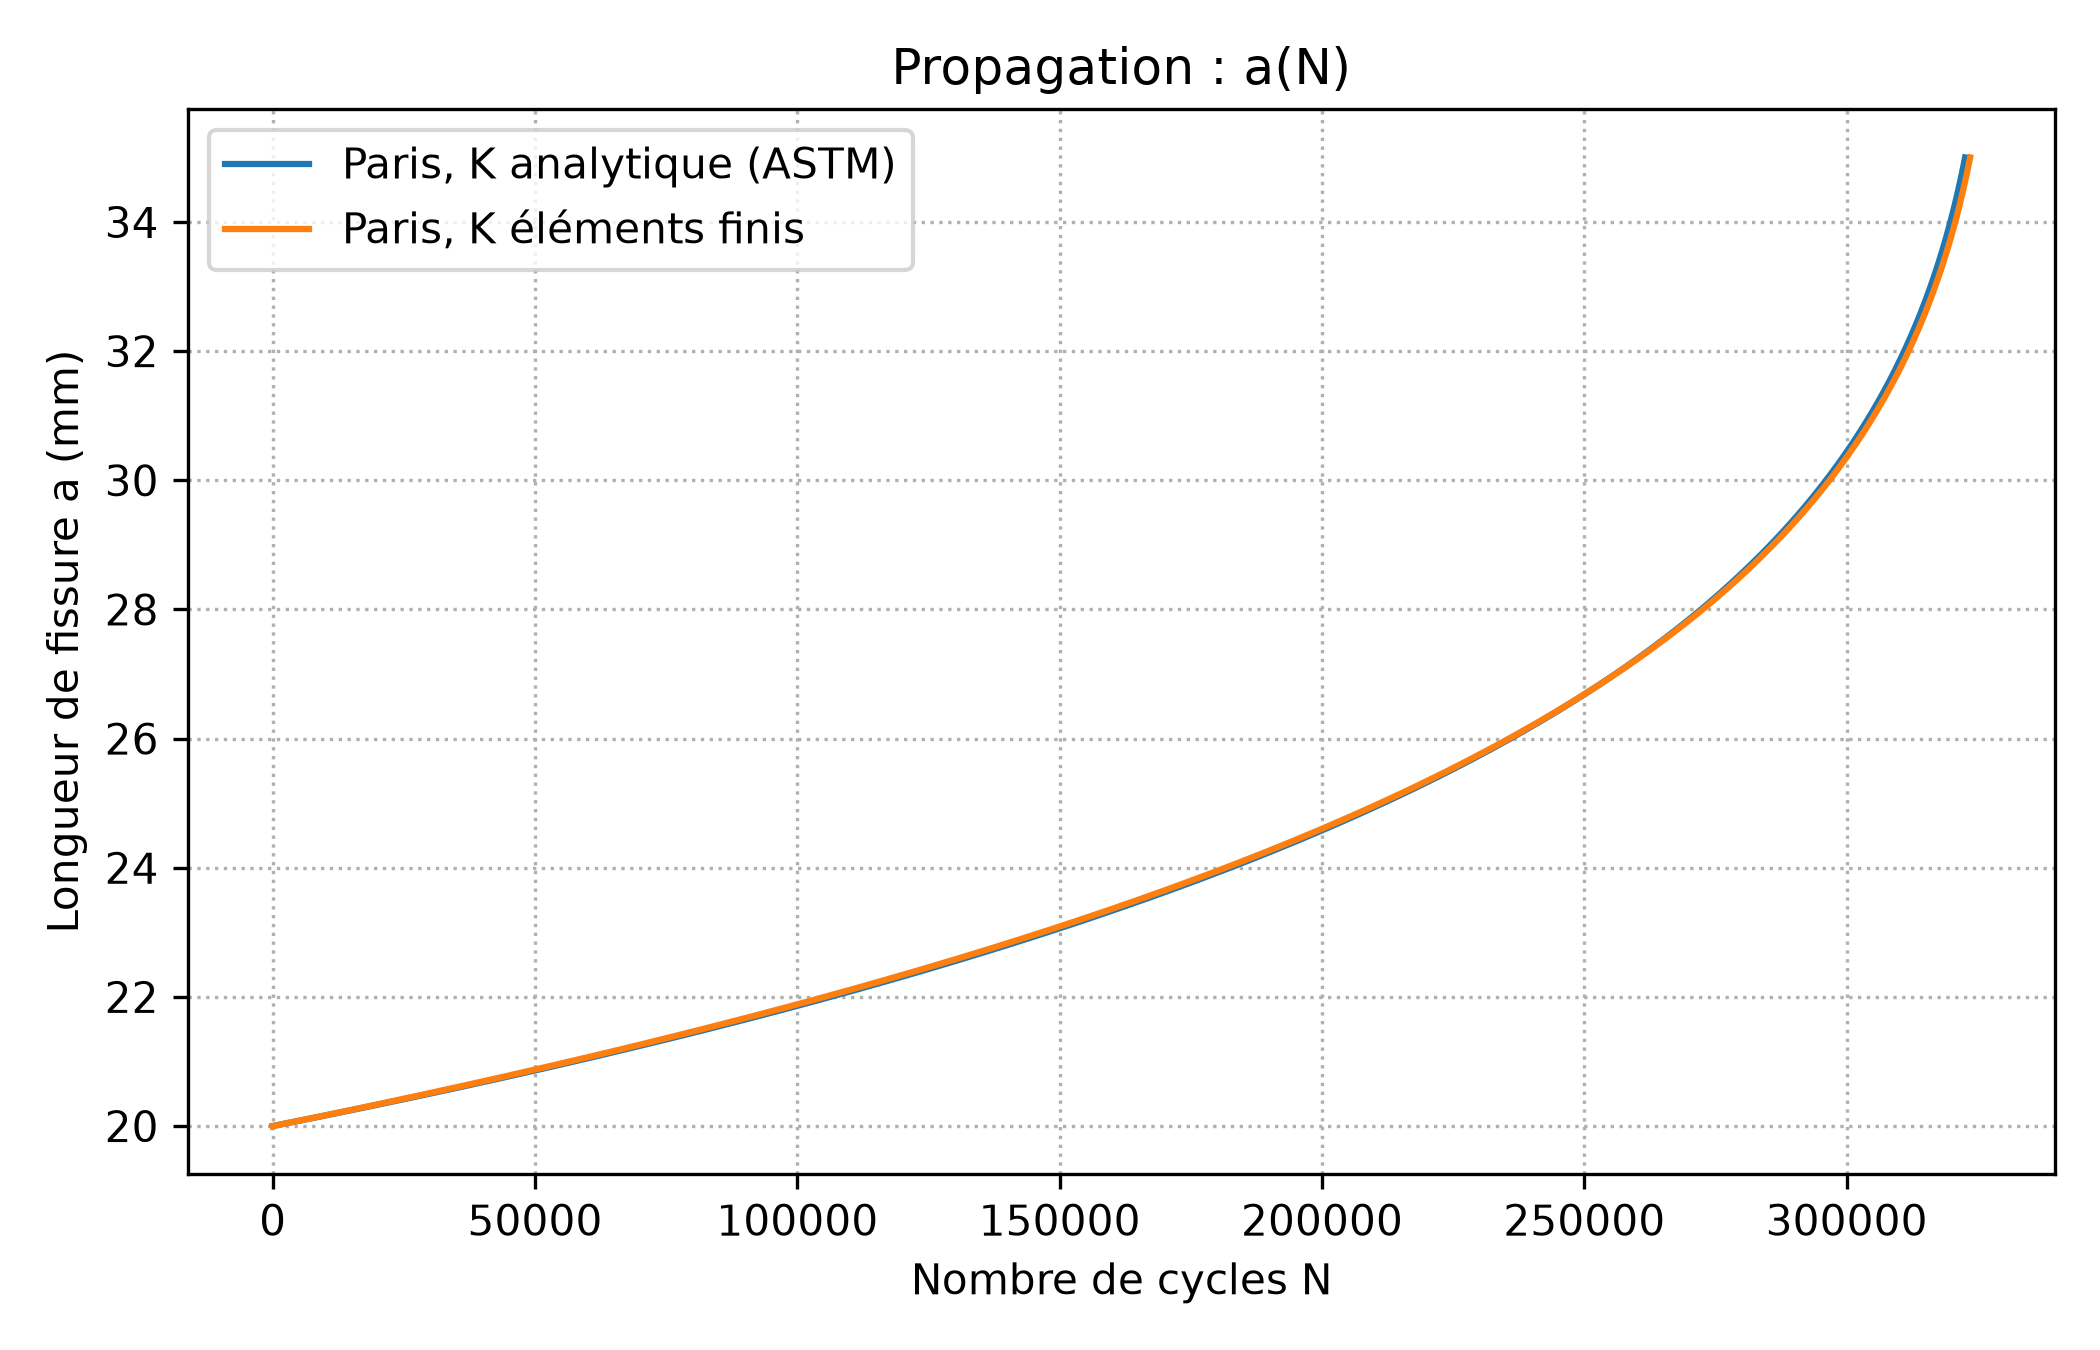
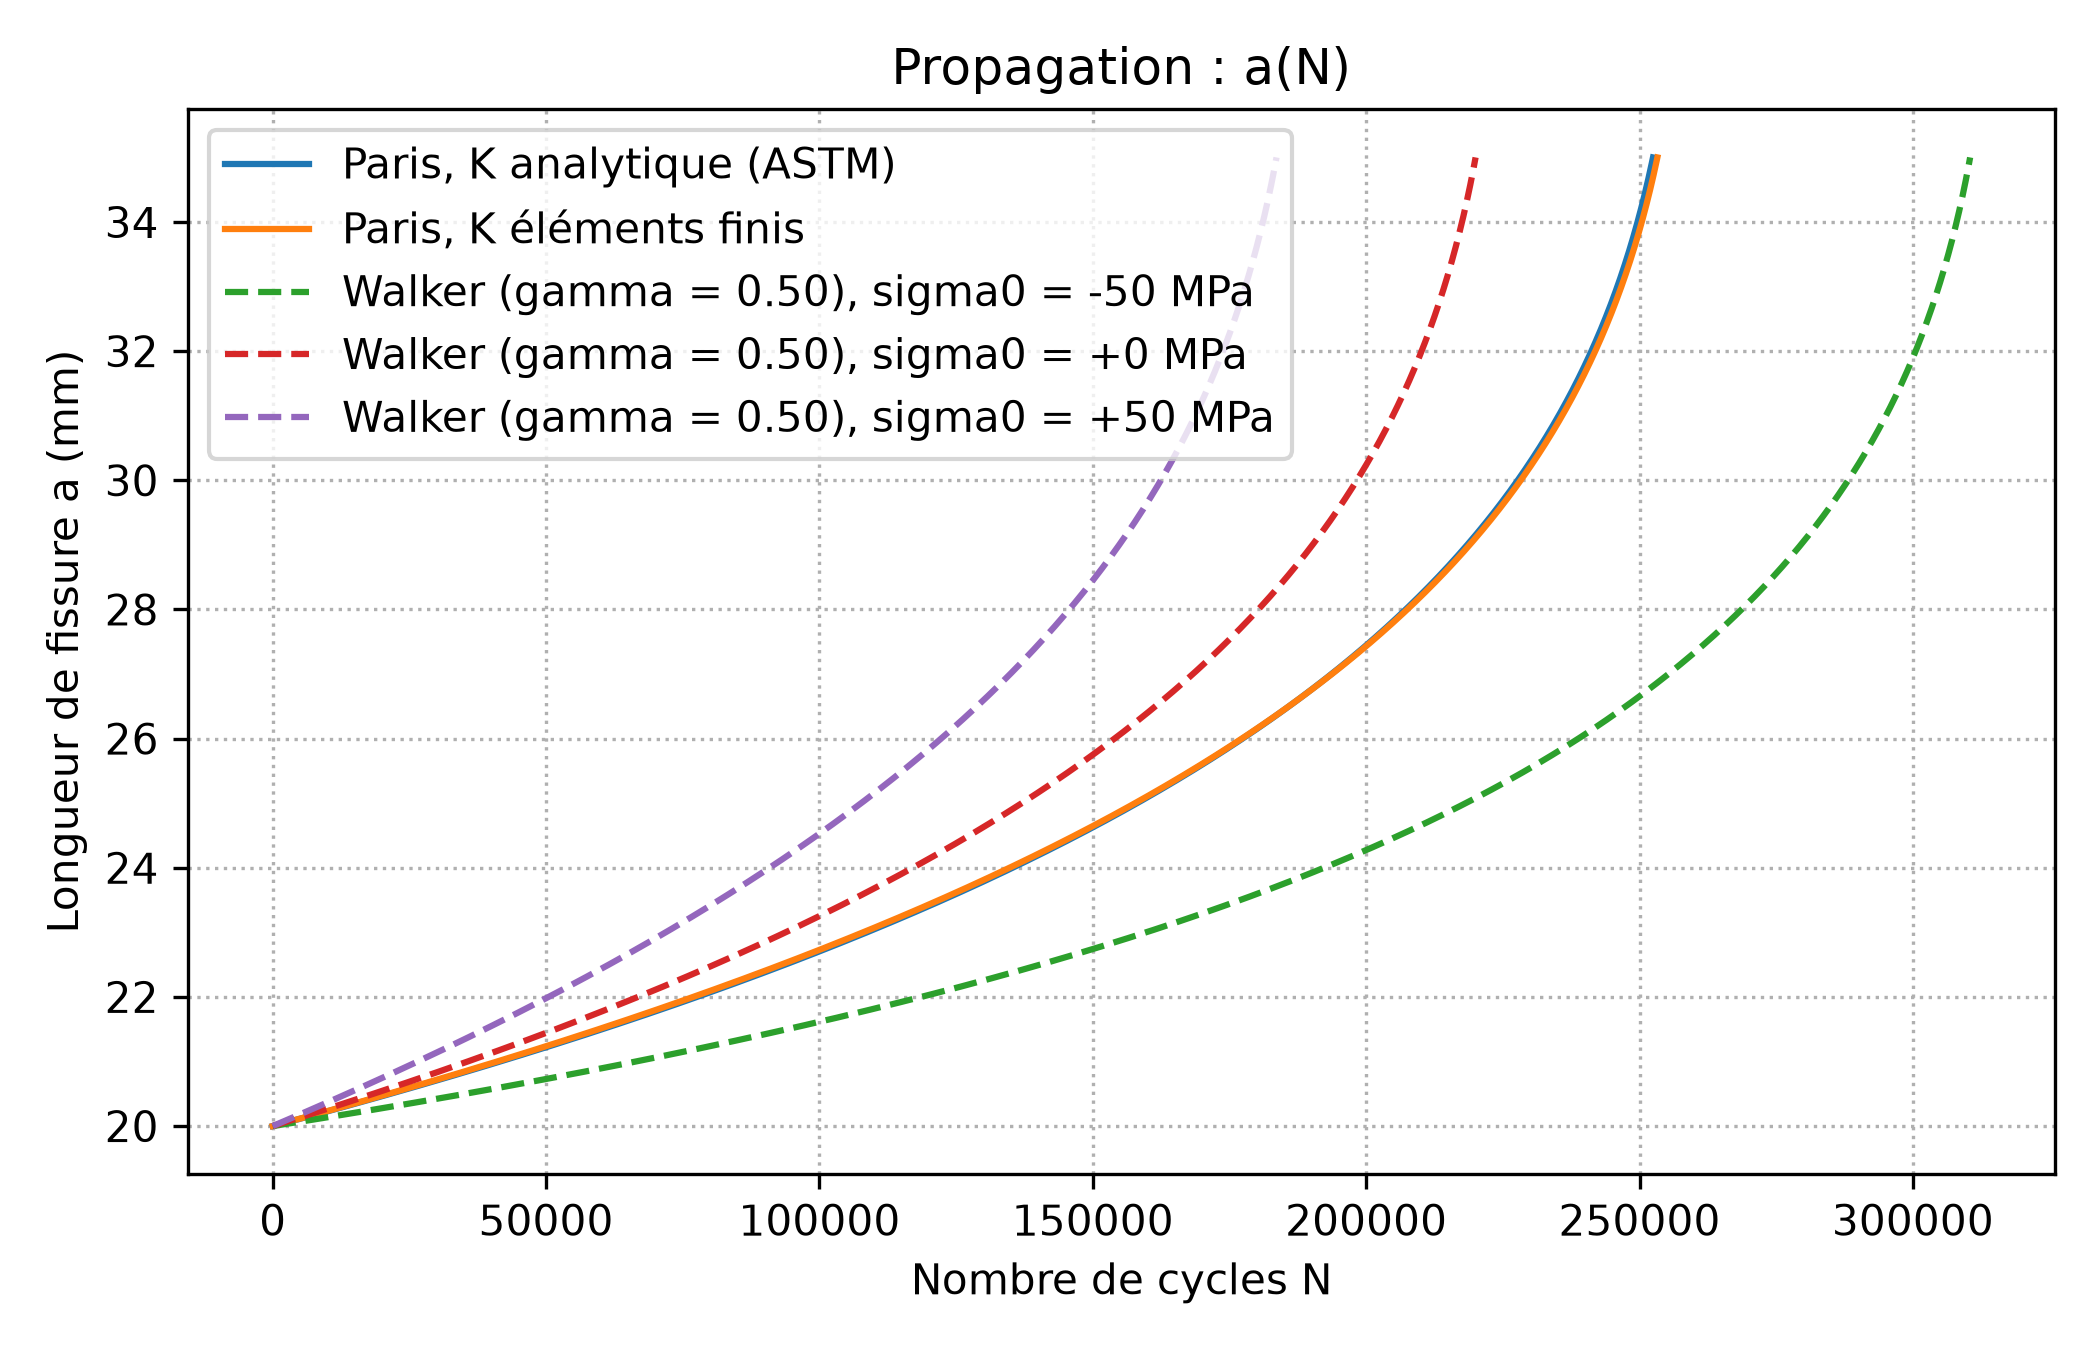
Paris : C et m ajustés sur le MIL-HDBK-5J (300M), étude de gamma et de sigma0

diff --git a/scripts/paris.py b/scripts/paris.py
@@ -70,9 +70,11 @@ def cycles(K, a0_mm, a1_mm, C_paris, m, R, gamma=1.0, k_res=0.0, n=2000):
     return a, np.concatenate([[0.0], np.cumsum(dN)])
 
 
-def etude_sensibilite(K, a0_mm, a1_mm, R, C0=P.C_PARIS, ms=(2.5, 3.0, 3.5), facteurs_C=(0.8, 1.0, 1.2)):
-    """N pour C +/- 20 % et plusieurs m. Attention : C et m sont corrélés ; varier m seul à C fixé
-    exagère l'effet (à écrire dans le README)."""
+def etude_sensibilite(K, a0_mm, a1_mm, R, C0=None, ms=None, facteurs_C=(0.8, 1.0, 1.2)):
+    """N pour C +/- 20 % et plusieurs m (par défaut m ajusté -0,5, m ajusté, +0,5). Attention : C et m sont
+    corrélés ; varier m seul à C fixé exagère l'effet (à écrire dans le README)."""
+    C0 = P.C_PARIS if C0 is None else C0
+    ms = (P.M_PARIS - 0.5, P.M_PARIS, P.M_PARIS + 0.5) if ms is None else ms
     lignes = []
     for m in ms:
         for f in facteurs_C:
@@ -81,15 +83,17 @@ def etude_sensibilite(K, a0_mm, a1_mm, R, C0=P.C_PARIS, ms=(2.5, 3.0, 3.5), fact
     return lignes
 
 
-def etude_k_res(K, k_res_unitaire, sigma0_calcul, a0_mm, a1_mm, valeurs_sigma0=(-100.0, -50.0, -25.0, 0.0, 25.0, 50.0, 100.0)):
+def etude_k_res(K, k_res_unitaire, sigma0_calcul, a0_mm, a1_mm, valeurs_sigma0=(-100.0, -50.0, -25.0, 0.0, 25.0, 50.0, 100.0), gamma=None):
     """N (loi de Walker) pour plusieurs amplitudes sigma0 de la contrainte résiduelle.
 
     K_res est linéaire en sigma0 (vérifié : 2 sigma0 donne 2 K_res, -sigma0 donne -K_res) : on met à
-    l'échelle le K_res calculé pour sigma0_calcul. Retourne une liste de (sigma0, N)."""
+    l'échelle le K_res calculé pour sigma0_calcul. gamma : exposant de Walker (par défaut params.GAMMA_WALKER).
+    Retourne une liste de (sigma0, N)."""
+    g = P.GAMMA_WALKER if gamma is None else gamma
     lignes = []
     for s0 in valeurs_sigma0:
         echelle = s0 / sigma0_calcul
-        _, N = cycles(K, a0_mm, a1_mm, P.C_PARIS, P.M_PARIS, P.R_CHARGE, P.GAMMA_WALKER,
+        _, N = cycles(K, a0_mm, a1_mm, P.C_PARIS, P.M_PARIS, P.R_CHARGE, g,
                       lambda a, e=echelle: e * k_res_unitaire(a))
         lignes.append((float(s0), float(N[-1])))
     return lignes
@@ -140,14 +144,14 @@ def main():
         a_kr, k_kr = charger_csv(chemin_kres, "a_mm", "K_res_MPa_sqrt_m")
         sigma0_calcul = charger_csv(chemin_kres, "a_mm", "sigma0_MPa")[1][0]
         k_res = fonction_k(a_kr, k_kr, deg=3)          # degré 3 : lisse le bruit numérique (~0,1 MPa√m)
-        for s0, N in etude_k_res(K, k_res, sigma0_calcul, a0, a1):
-            sorties.append(("Walker sigma0=%+.0f MPa" % s0, "K éléments finis", N))
+        for g in (0.5, 0.75, 1.0):                     # gamma n'est fixé par aucune source : on le fait varier
+            for s0, N in etude_k_res(K, k_res, sigma0_calcul, a0, a1, valeurs_sigma0=(-100.0, -50.0, 0.0, 50.0, 100.0), gamma=g):
+                sorties.append(("Walker gamma=%.2f sigma0=%+.0f MPa" % (g, s0), "K éléments finis", N))
         for s0 in (-50.0, 0.0, 50.0):
             e = s0 / sigma0_calcul
             a, N = cycles(K, a0, a1, P.C_PARIS, P.M_PARIS, P.R_CHARGE, P.GAMMA_WALKER,
                           lambda x, e=e: e * k_res(x))
-            plt.plot(N, a, "--", label="Walker, sigma0 = %+.0f MPa" % s0)
-
+            plt.plot(N, a, "--", label="Walker (gamma = %.2f), sigma0 = %+.0f MPa" % (P.GAMMA_WALKER, s0))
     plt.xlabel("Nombre de cycles N")
     plt.ylabel("Longueur de fissure a (mm)")
     plt.title("Propagation : a(N)")

diff --git a/scripts/params.py b/scripts/params.py
@@ -44,11 +44,12 @@ TOL_K = 0.005                           # 0,5 % (idéalement 0,1 %)
 
 MMSQRT_VERS_MSQRT = 1.0 / math.sqrt(1000.0)
 
-# --- Propagation (paris.py) : valeurs ILLUSTRATIVES, à remplacer par une source citée ---
-C_PARIS = 1.0e-11                       # da/dN en m/cycle, DK en MPa*sqrt(m)
-M_PARIS = 3.0
+# --- Propagation (paris.py) ---
+# C et m : ajustés (scripts/ajuster_paris.py) sur la figure 2.3.1.4.9 de la MIL-HDBK-5J (300M, CT, R = 0,08 à 0,5).
+C_PARIS = 3.121e-11                     # da/dN en m/cycle, DK en MPa*sqrt(m)
+M_PARIS = 2.672
 R_CHARGE = 0.1                          # P_min / P_max
-GAMMA_WALKER = 0.5                      # exposant de Walker (aciers : environ 0,5 à 0,9)
+GAMMA_WALKER = 0.5                      # exposant de Walker : NON SOURCÉ, traité comme paramètre (voir paris.py)
 A_INITIAL_SUR_W = 0.40                  # début de l'intégration : K(a) FE à +/-1 % de l'ASTM à partir de a/W = 0,4
 A_FINAL_SUR_W = 0.70                    # fin de l'intégration
 K_IC = None                             # MPa*sqrt(m) : À RENSEIGNER (source citée) pour contrôler K_max < K_Ic

diff --git a/tests/test_paris.py b/tests/test_paris.py
@@ -104,3 +104,10 @@ def test_etude_k_res_sigma0_nul_egale_walker_sans_k_res():
     n0 = dict(etude_k_res(K, k_res, 100.0, 10.0, 20.0, valeurs_sigma0=(0.0,)))[0.0]
     n_direct = cycles(K, 10.0, 20.0, P.C_PARIS, P.M_PARIS, P.R_CHARGE, P.GAMMA_WALKER, 0.0)[1][-1]
     assert np.isclose(n0, n_direct)
+
+def test_gamma_1_traction_sans_effet_mais_compression_ralentit():
+    K = k_constant(20.0)
+    k_res = lambda a: np.full_like(np.asarray(a, dtype=float), 5.0)     # K_res = +5 pour sigma0 = 100
+    lignes = dict(etude_k_res(K, k_res, 100.0, 10.0, 20.0, valeurs_sigma0=(-100.0, 0.0, 100.0), gamma=1.0))
+    assert np.isclose(lignes[100.0], lignes[0.0])         # traction, fissure ouverte : DK inchangé
+    assert lignes[-100.0] > lignes[0.0]                   # compression : fermeture, DK réduit

diff --git a/README.md b/README.md
@@ -10,7 +10,7 @@ comparaison à la formule ASTM E399, puis prédiction de durée de vie en propag
 - K éléments finis contre formule (a/W = 0,5) : **−0,33 %** (17,22 contre 17,28 MPa√m), maillage convergé à la pointe
 - Convergence de maillage : K stable à 0,06 % près pour un premier élément de 0,27 à 0,05 mm (4 maillages, critère 0,2 %)
 - K(a) pour 9 longueurs de fissure : écart à l'ASTM inférieur à 1 % de a/W = 0,4 à 0,7 ; +4,0 % et +2,1 % à a/W = 0,3 et 0,35 (cause non établie), d'où une propagation intégrée de 20 à 35 mm
-- Durée de vie (C, m illustratifs, R = 0,1) : 3,2 × 10⁵ cycles de 20 à 35 mm, identique à 0,3 % près avec K éléments finis ou K ASTM ; N varie d'un facteur 15 entre m = 2,5 et m = 3,5
+- Durée de vie (300M, C et m ajustés sur la figure 2.3.1.4.9 du MIL-HDBK-5J, R = 0,1) : 2,5 × 10⁵ cycles de 20 à 35 mm, identique à 0,3 % près avec K éléments finis ou K ASTM ; N varie d'un facteur 15 pour m ± 0,5 ; effet des contraintes résiduelles (σ0 et γ hypothétiques) de −28 % à +41 % pour γ = 0,5, nul en traction pour γ = 1
 - Contraintes résiduelles (bonus, profil et amplitude HYPOTHÉTIQUES) : K_res par superposition, +6,9 MPa√m à 20 mm pour σ0 = 100 MPa, décroissant et nul vers 34 mm ; effet sur la durée de vie (Walker, C, m, γ illustratifs) de −32 % (σ0 = +100 MPa) à +237 % (σ0 = −100 MPa)
 
 ## Modèle

diff --git a/docs/hypotheses.md b/docs/hypotheses.md
@@ -77,7 +77,12 @@ Le contour 1 est écarté (peu précis). On rapporte aussi la dispersion de J (c
 ## Propagation
 - Loi de Paris : da/dN = C (DK)^m ; loi de Walker : da/dN = C [K_max (1 − R)^gamma]^m.
 - C, m, gamma de params.py : valeurs illustratives, à remplacer par une source citée.
-- C et m sont corrélés : varier m seul à C fixé exagère l'effet sur N.
+- C et m : ajustés sur la figure 2.3.1.4.9 de la MIL-HDBK-5J (scripts/ajuster_paris.py, 15 points numérisés avec
+  WebPlotDigitizer, ΔK de 10 à 29 ksi√po) : C = 3,121e-11 (m/cycle, MPa√m), m = 2,672, dispersion autour de
+  la droite d'un facteur 1,07. La pente locale baisse de 2,69 (10-18 ksi√po) à 2,28 (18-29) : la loi à un
+  seul exposant est une approximation. La bande regroupe R = 0,08 à 0,5.
+- γ (Walker) : aucune source ; étudié de 0,5 à 1. Pour γ = 1, une contrainte résiduelle en traction n'a
+  aucun effet (DK inchangé) ; une compression ralentit quand même la fissure par fermeture simplifiée.
 - N varie d'un facteur 15 entre m = 2,5 et m = 3,5 (C = 1e-11) : DK est élevé à la puissance m.
 - Zone de propagation stable seulement : ni seuil DK_th, ni rupture finale.
 - À contrôler : K_max < K_Ic sur tout l'intervalle de a (K_Ic à renseigner dans params.py).
